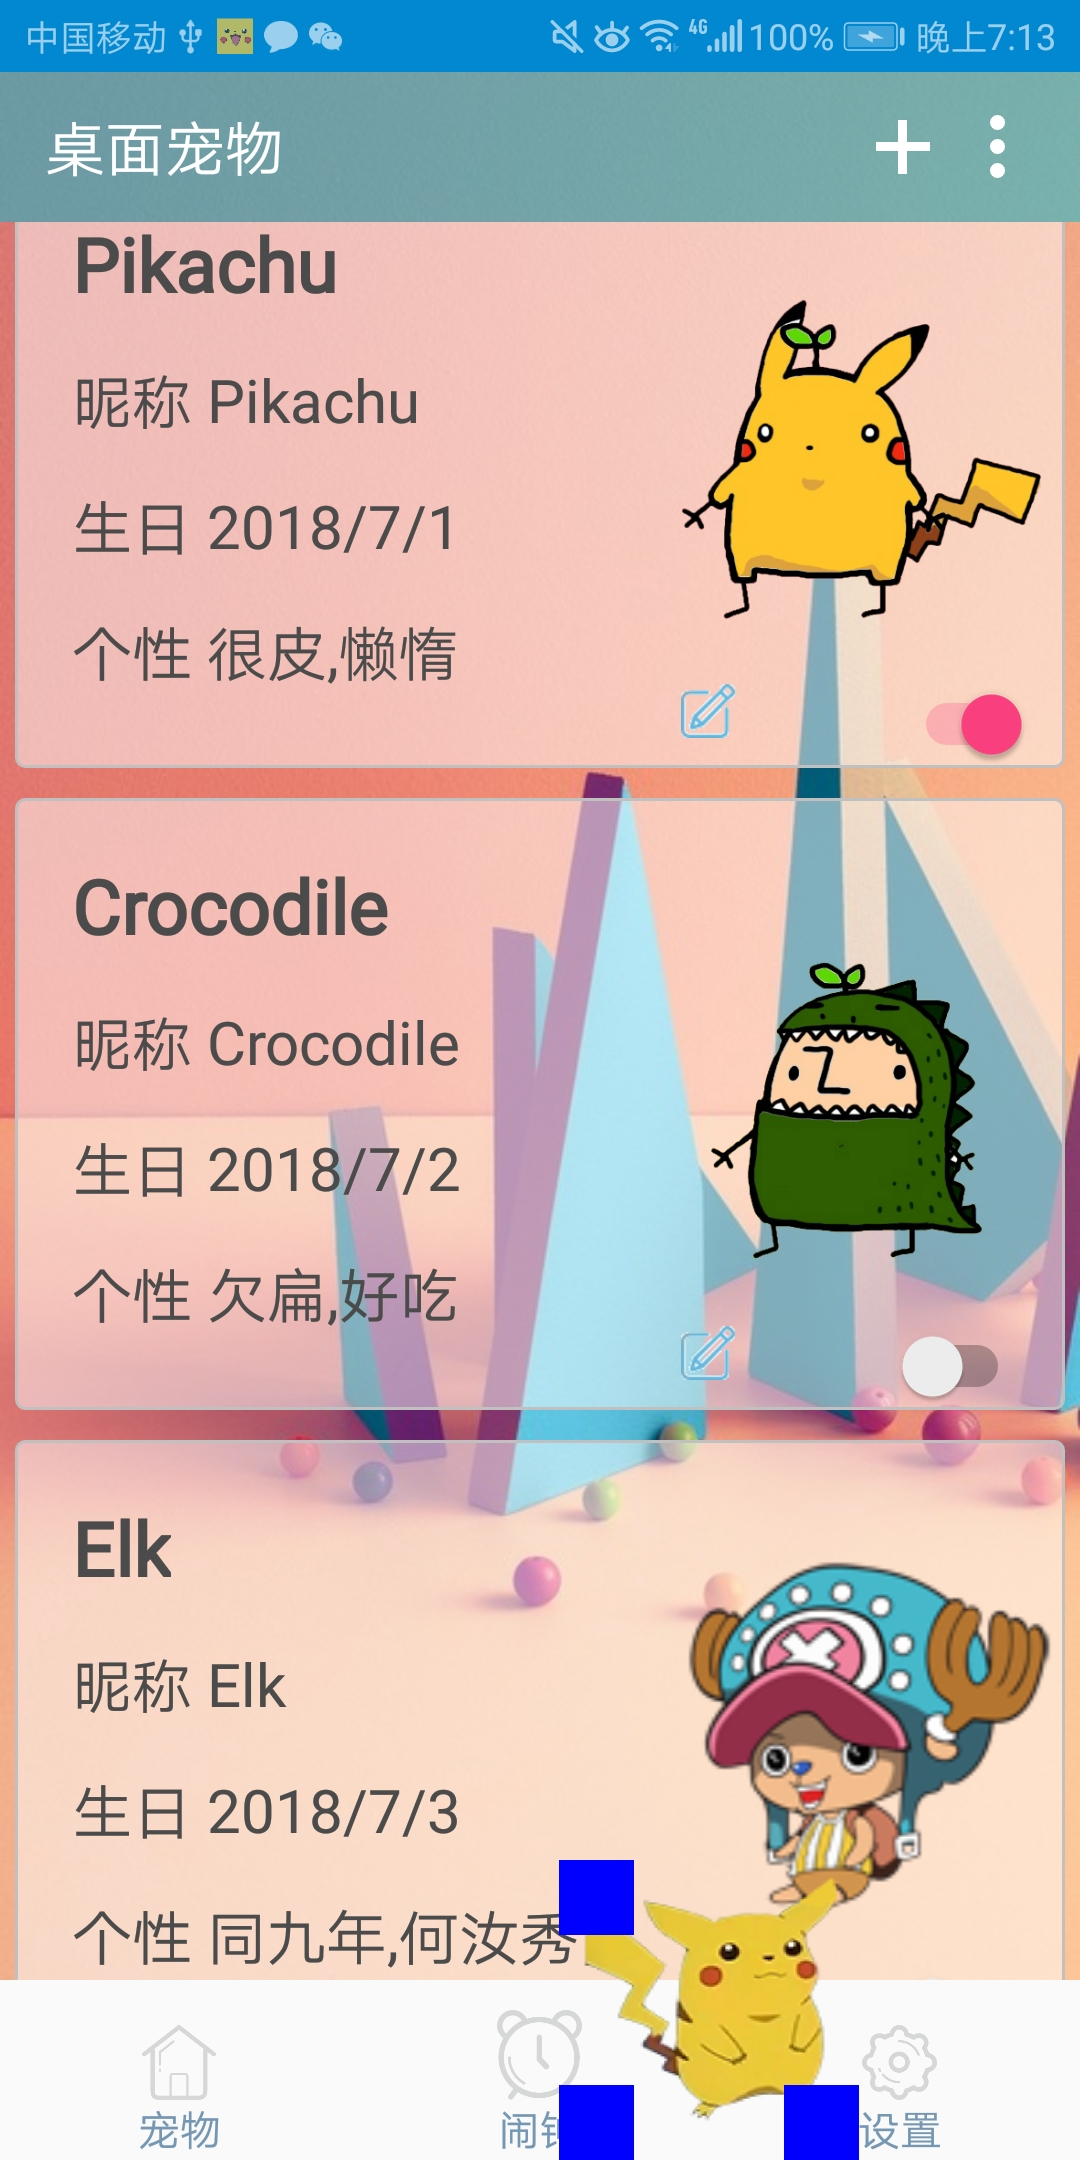
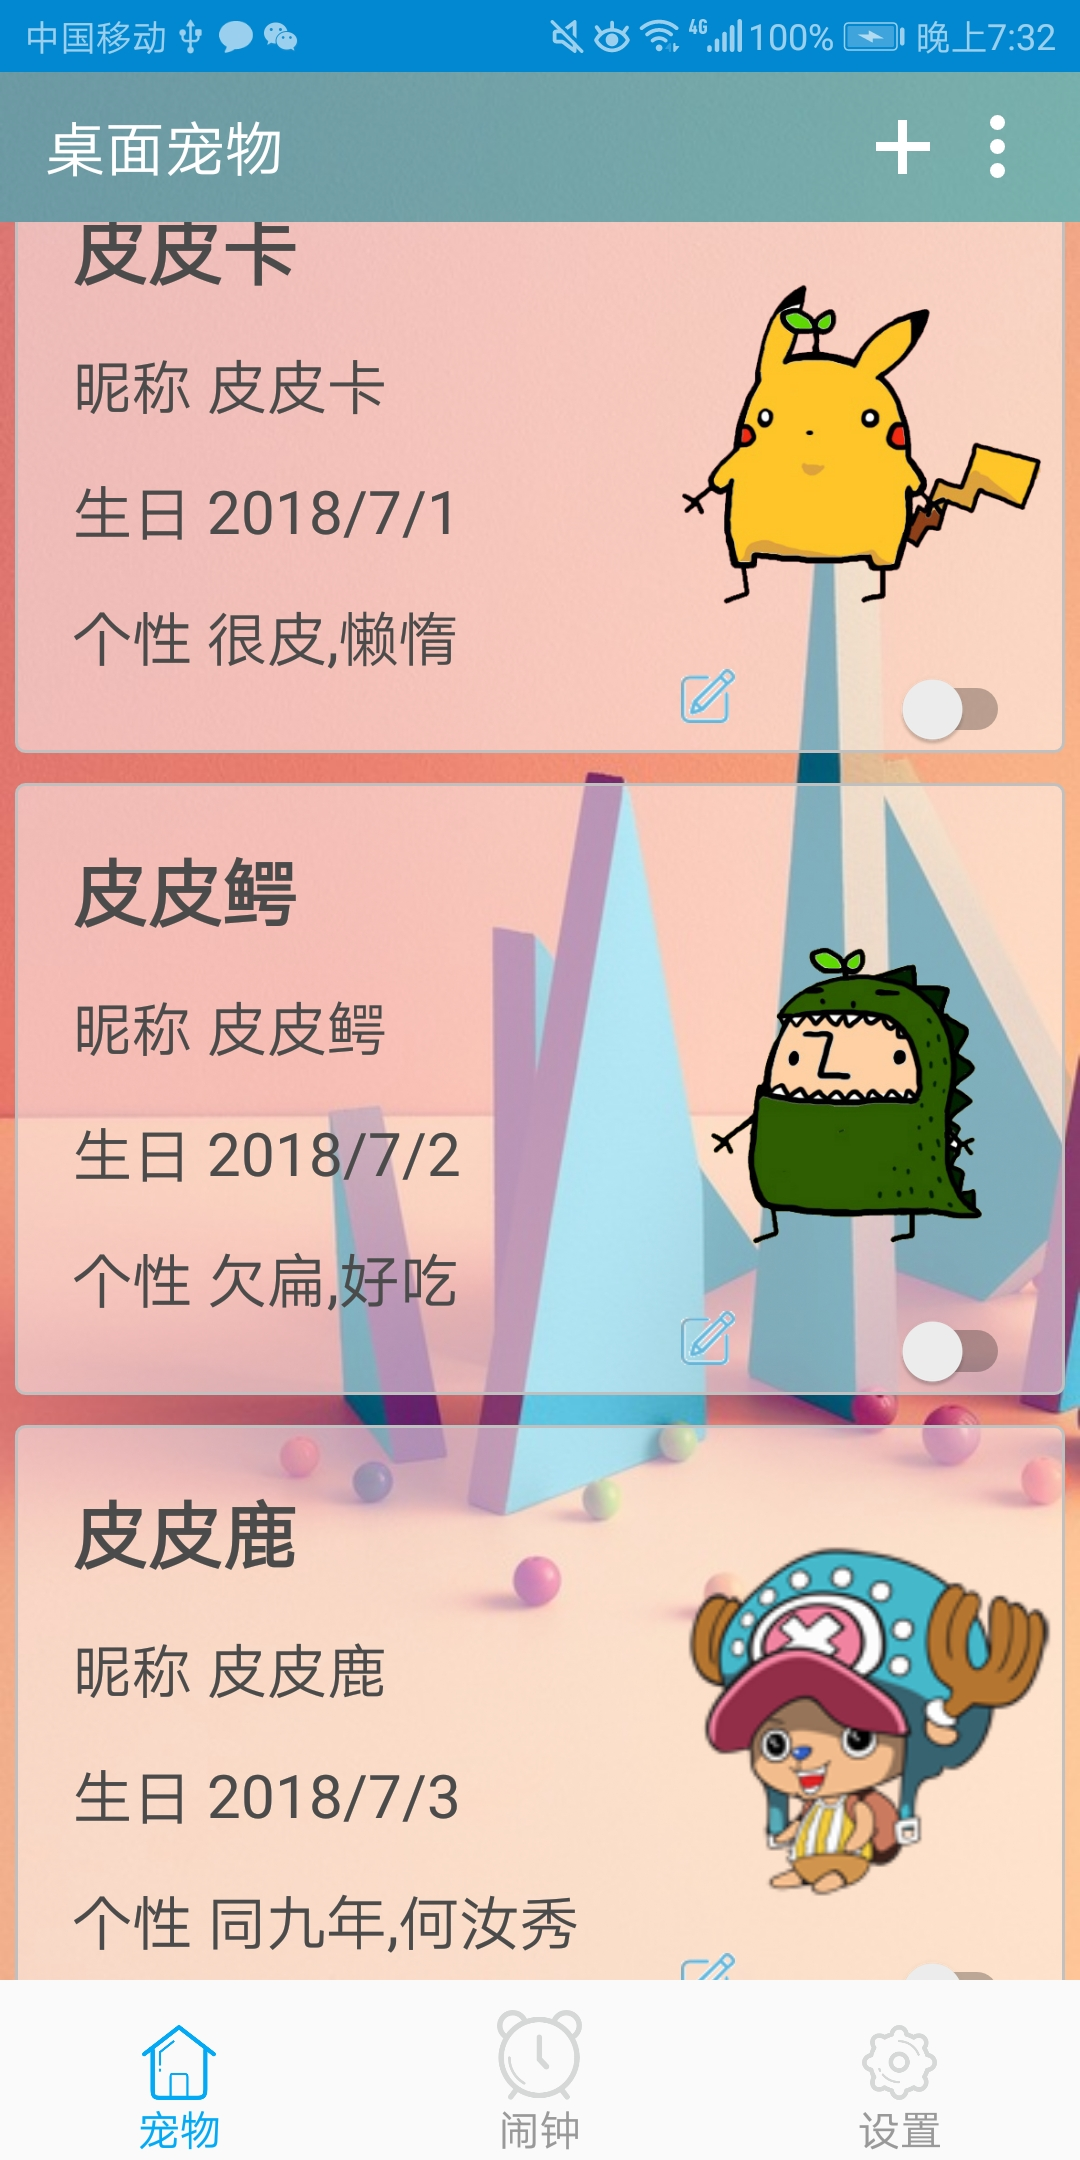
pi

diff --git a/Pikachu/app/src/main/java/com/example/yang/pikachu/fragment/ClockFragment.java b/Pikachu/app/src/main/java/com/example/yang/pikachu/fragment/ClockFragment.java
@@ -67,6 +67,18 @@ public class ClockFragment extends Fragment {
 
         listview = (ListView) rootView.findViewById(R.id.activity_main_listview);
 
+        alarm_task.add("起床");
+        alaram_selected.add(false);
+        alarm_date.add("2016年3月24号");
+        alarm_time.add("15:20");
+        alarm_beizhu.add("洗洗睡");
+        alarm_task.add("吃饭");
+        alaram_selected.add(true);
+        alarm_date.add("2016年4月21号");
+        alarm_time.add("19:35");
+        alarm_beizhu.add("吃麻麻香");
+
+
         //获取数据库消息显示信息
         String GET_ALL = "select * from alarm_task";
         Cursor cursor = dbhelper.getReadableDatabase().rawQuery(GET_ALL, null);

diff --git a/Pikachu/app/src/main/java/com/example/yang/pikachu/MainActivity.java b/Pikachu/app/src/main/java/com/example/yang/pikachu/MainActivity.java
@@ -107,9 +107,9 @@ public class MainActivity extends FragmentActivity implements View.OnClickListen
         //第一次登陆时的初始化
         if(!sharedPreferences.contains("times")){
             editor.putInt("times",1);
-            editor.putString("name1", "Pikachu");
-            editor.putString("name2","Crocodile");
-            editor.putString("name3","Elk");
+            editor.putString("name1", "皮皮卡");
+            editor.putString("name2","皮皮鳄");
+            editor.putString("name3","皮皮鹿");
             editor.putString("birthday1", "2018/7/1");
             editor.putString("birthday2","2018/7/2");
             editor.putString("birthday3","2018/7/3");
